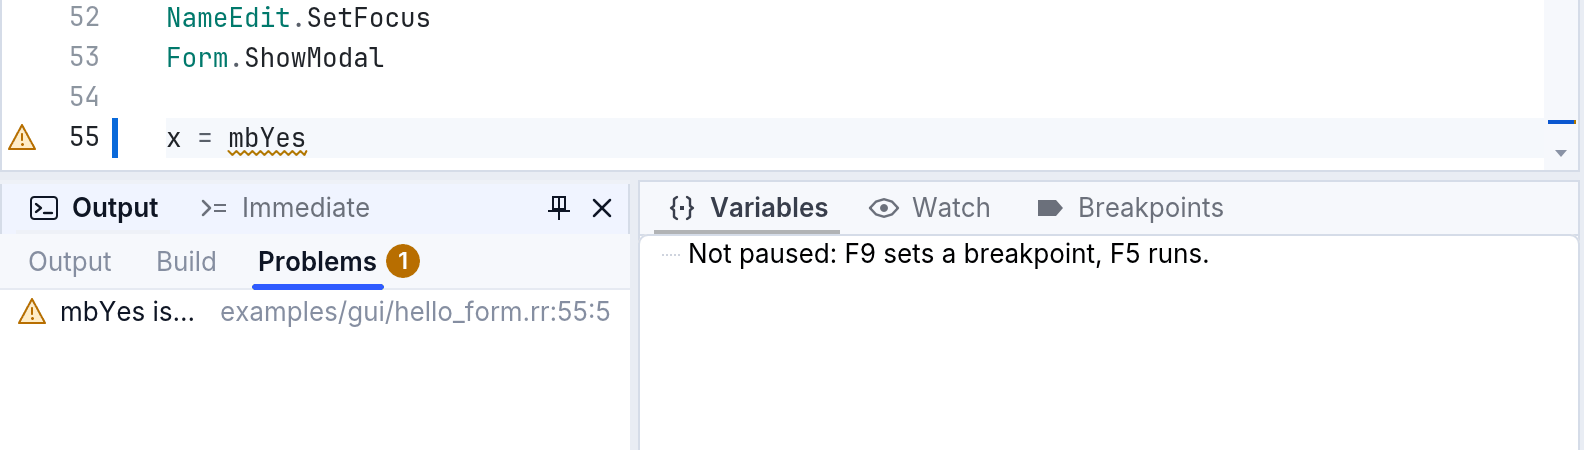
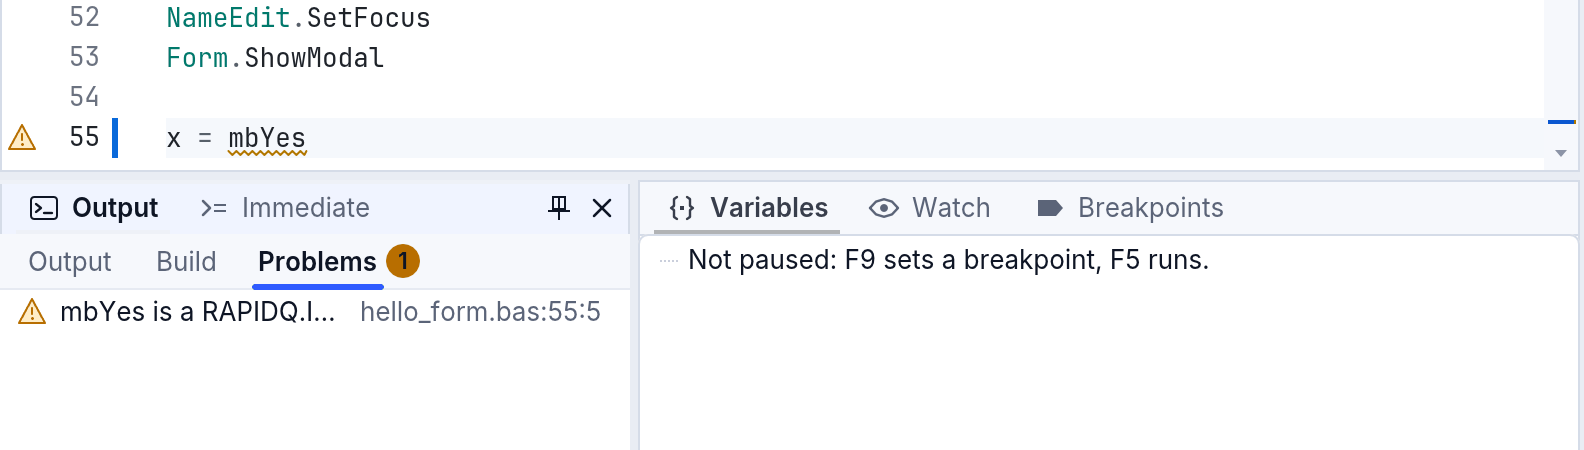
M0-CONST (2/2): the mark leaves no line behind; Studio flows, manual, changelog
- rapidr_ast::builtin_constants takes the preprocessor's mark out once it
  has read it (a directive's empty line entry after the file's last line
  was a place a breakpoint moved to: Studio flow debug-placed caught it),
  and puts QBColor's initialisation on the program's first line of code
  (as the include's are on its $INCLUDE line); a bcgen test guards both.
- Studio flows: the RAPIDQ.INC hint, quick fix and include-adding
  completion now on a RapidQ program (tests/fixtures/hello_form.bas, the
  example as a .bas); new editor-builtin-constants (mbYes, mtInformation,
  mbOK, clRed typed in a .rr: no problem) and editor-complete-builtin (no
  include added); inspector-kinds expects the constants' names in a .rr.
  Desktop and web.
- The examples suite compiles a web example under its file's name (a .rr
  is a RapidR program there too).
- Manual: Constants (language.md) for .rr and .bas; the code editor page
  with a new shot (completion-builtin) and the RAPIDQ.INC shots retaken on
  hello_form.bas (Studio started in the scene's folder: the file's name on
  screen, never the machine's path — tools/manual/shots.mjs `cwd`);
  designing forms, getting started, importing, debugging, the assistant.
- CHANGELOG (Changed), ROADMAP ticks (Constants, the modern way; the
  decision), master plan M0 row done.

diff --git a/crates/rapidr-ast/src/builtin_constants.rs b/crates/rapidr-ast/src/builtin_constants.rs
@@ -98,20 +98,60 @@ pub fn is_rapidr_program(program: &Program) -> bool {
 }
 
 /// The program with its built-in constants and `QBColor` (see the module);
-/// a RapidQ program as it is.
+/// a RapidQ program as it is. The mark itself is taken out: it is no code,
+/// and a line of its own (after the file's last) would be a place a
+/// breakpoint could move to.
 pub fn lower(program: &Program) -> Program {
     let Some(at) = mark(program) else { return program.clone() };
     let mut program = program.clone();
+    program.statements.retain(|s| !is_mark(s));
     let mut own = HashSet::new();
     own_names(&program.statements, &mut own, false);
     let mut qbcolor = false;
     rewrite_block(&mut program.statements, &own, &mut qbcolor);
     if qbcolor && !own.contains("qbcolor") {
-        let mut init = qbcolor_statements(at);
+        // (on the program's first line of code, as the include's are on
+        // its `$INCLUDE` line: never on a line after the file's last)
+        let first = program.statements.iter().filter_map(code_start).filter(|s| *s < at.start).min();
+        let mut init = qbcolor_statements(first.map_or(at, |s| TextSpan::new(s, s)));
         init.append(&mut program.statements);
         program.statements = init;
     }
     program
+}
+
+/// Where a statement of the main program's code starts: `None` for what
+/// runs no code there (directives, comments, routines, TYPEs, DECLAREs).
+fn code_start(s: &Statement) -> Option<usize> {
+    let span = match s {
+        Statement::Directive(_) | Statement::Comment(_) | Statement::Subroutine(_) | Statement::Function(_) | Statement::Type(_) | Statement::Declare(_) | Statement::RustBlock(_) => return None,
+        Statement::Assignment(a) => a.span,
+        Statement::Bind(b) => b.span,
+        Statement::Call(c) => c.span,
+        Statement::Close(c) => c.span,
+        Statement::Const(c) => c.span,
+        Statement::Create(c) => c.span,
+        Statement::Dim(d) => d.span,
+        Statement::DoLoop(d) => d.span,
+        Statement::Exit(e) => e.span,
+        Statement::For(f) => f.span,
+        Statement::If(i) => i.span,
+        Statement::Import(i) => i.span,
+        Statement::Input(i) => i.span,
+        Statement::Label(l) => l.span,
+        Statement::Goto(j) | Statement::Gosub(j) => j.span,
+        Statement::Line(l) => l.span,
+        Statement::Open(o) => o.span,
+        Statement::Print(p) => p.span,
+        Statement::PrintHash(p) => p.span,
+        Statement::Return(r) => r.span,
+        Statement::Seek(s) => s.span,
+        Statement::SelectCase(s) => s.span,
+        Statement::While(w) => w.span,
+        Statement::With(w) => w.span,
+        Statement::WriteHash(w) => w.span,
+    };
+    Some(span.start)
 }
 
 /// `DIM QBColor(0 TO 15) AS INTEGER` and its 16 values, as the include
@@ -393,12 +433,14 @@ mod tests {
         let rr = Program { span: TextSpan::default(), statements: vec![print(call), mark_stmt()] };
         let out = lower(&rr);
         assert!(matches!(&out.statements[0], Statement::Dim(d) if d.declarators[0].name == "QBColor" && d.type_name == "INTEGER"));
-        assert_eq!(out.statements.len(), 17 + 2);
-        // (the mark's place: no file has it)
-        assert!(matches!(&out.statements[1], Statement::Assignment(a) if a.span == TextSpan::new(90, 104)));
+        // (the 17 statements and the PRINT; the mark is gone: no code)
+        assert_eq!(out.statements.len(), 17 + 1);
+        assert!(!out.statements.iter().any(is_mark));
+        // (on the program's first line of code, never after its last)
+        assert!(matches!(&out.statements[1], Statement::Assignment(a) if a.span == TextSpan::new(0, 0)));
         // (not used: nothing added)
         let rr = Program { span: TextSpan::default(), statements: vec![print(id("clRed")), mark_stmt()] };
-        assert_eq!(lower(&rr).statements.len(), 2);
+        assert_eq!(lower(&rr).statements.len(), 1);
     }
 
     #[test]

diff --git a/interpreter/rapidr-bcgen/src/lib.rs b/interpreter/rapidr-bcgen/src/lib.rs
@@ -3158,6 +3158,18 @@ mod tests {
         assert_eq!(run(&format!("{}\nPRINT True\n", rapidr_preprocessor::rapidq_inc_text())).output, "1\n");
     }
 
+    /// The preprocessor's mark of a RapidR program (a line after the
+    /// file's last) and the QBColor array it gets are on no line after the
+    /// program's code: a breakpoint after the last line never moves there.
+    #[test]
+    fn built_in_constants_add_no_line_after_the_programs() {
+        let src = format!("' a comment\nPRINT QBColor(1)\nPRINT mbYes\n{}\n", rapidr_preprocessor::RAPIDR_PROGRAM);
+        let compiled = compile_program_with_source(&parse(&src), Some(&src)).expect("compiles");
+        let main = &compiled.module.functions[compiled.module.entry as usize];
+        let lines: Vec<u32> = main.line_info.iter().map(|(_, line)| *line).collect();
+        assert!(!lines.is_empty() && lines.iter().all(|l| (2..=3).contains(l)), "{lines:?}");
+    }
+
     #[test]
     fn print_string() {
         let h = run(r#"PRINT "hello""#);

diff --git a/ROADMAP.md b/ROADMAP.md
@@ -380,10 +380,10 @@ Planned 2026-10-03 with the user: RapidQ was made for 96-dpi screens; today's ar
 - [x] `Anchors` (Delphi's akLeft / akTop / akRight / akBottom) and `Constraints` (MinWidth …) on every component, in `rapidr_value::layout` (v2.107.0)
 - [ ] Flow and grid containers (Delphi's TFlowPanel / TGridPanel) for layouts that reflow on small screens — the base for mobile
 - [ ] Constants, the modern way (decided 2026-10-16 — Robert left it to the lead; after Preview 2):
-  - `.bas` programs keep RapidQ's rule: `$INCLUDE "RAPIDQ.INC"` turns its constants on. They stay built in, no RapidQ file is shipped, and nothing changes for old programs.
-  - `.rr` programs get every library constant built in, no include needed, as in VB and Delphi. Only the constants used are compiled, and a program's own name wins.
+  - [x] `.bas` programs keep RapidQ's rule: `$INCLUDE "RAPIDQ.INC"` turns its constants on. They stay built in, no RapidQ file is shipped, and nothing changes for old programs.
+  - [x] `.rr` programs get RAPIDQ.INC's constants and `QBColor` built in, no include needed, as in VB and Delphi. Only the constants used are compiled, and a program's own name wins (M0-CONST, rapidr_ast::builtin_constants; `True` stays -1). Left: the library includes' constants (`qmidi.inc`'s MD_PLAY …) still come with their include
   - Optional topic names such as `Color.Red` and `MsgBox.YesNo` for autocomplete; the old names keep working.
-  - The debugger never lists library constants as globals.
+  - [x] The debugger never lists library constants as globals (a `.rr` program's built-in ones are no variables; an include's stay grouped under it)
 - [ ] A stack container (RStackPanel: children one under the other or side by side, gap and padding) where a hidden child takes no space — forms that hide rows (Studio's Settings > AI hides Workspace ID / Address per provider) close up by themselves, no hand-placed `y = y + row` code; easy enough for a school kid, live in the designer, in the registry (Robert, 2026-10-16; after Preview 2)
 
 **One UI kernel (principle 7)**
@@ -449,7 +449,7 @@ The IDE plan ([docs/ide-plan.md](docs/ide-plan.md)) schedules the immediate wind
 - [x] Phase 1: RapidR's names (`RButton`) the default in the registry's exports, the manual, the language service (completion, hovers, "RapidQ name: QBUTTON"), the examples (but `examples/rapidq/`), the docs and the template; the compilers always accept both names; the importer and `upgrade-names` (crates/rapidr-import) with the corpus proof; `.rqw` / `.rqb` / `.rq` sources everywhere; a RapidQ-compatible project warns on RapidR's names of RapidQ's components
 - [x] Phase 2 (2026-10-08): RapidR Studio's toolbox (groups by purpose, no "RapidQ" / "RapidR" groups; RapidR's names; the card gives RapidQ's name), inspector header ("RButton (RapidQ name: QBUTTON)"), the designer's announcements, F1 Help and completion under RapidR's names; the designer and completion write new code in each file's style (`rapidr_lang::NameStyle`, never mixed); the templates (but "RapidQ program"), Add Form, Studio's own strings and `ide/` code under RapidR's names (proved: the same bytecode); File ▸ "Import RapidQ Project or File…" on desktop and web; `.rqw` / `.rqb` / `.rq` open, run and are read by the language service in Studio
 - [ ] Phase 2, the rest: "Upgrade this file to RapidR names" (Code menu, the palette, a code action: the diff, then one undoable edit)
-- [ ] Decide (Robert): built-in RAPIDQ.INC constants without the `$INCLUDE` line for RapidR's own files (today the line stays, as in RapidQ)
+- [x] Decide (Robert): built-in RAPIDQ.INC constants without the `$INCLUDE` line for RapidR's own files — decided 2026-10-16 (Constants, the modern way), done in M0-CONST: built into `.rr`, `.bas` as in RapidQ
 
 **I0 — Foundations** (L, 12–16 sessions)
 - [ ] The language registry (`rapidr-lang`): every component (Q and R names, which RapidQ has), property (type, default, editor, origin), method, event, builtin, statement and directive, with docs in our words; tests tie it to both runtimes both ways; generates the IDE's completion data, the VS Code data, the manual's reference sections and the AI prompt; `COMPONENT_TYPES` and the runtimes' name lists generated (Phase 0's "single language registry")

diff --git a/docs/manual/studio-editor.md b/docs/manual/studio-editor.md
@@ -70,12 +70,19 @@ constants:
 
 ### RAPIDQ.INC's constants
 
-Constants such as `mbYes`, `mtWarning`, `clRed` or `fmOpenRead` come from
-the include file RAPIDQ.INC. The list offers them even before your program
-includes it, and choosing one also adds the line `$INCLUDE "RAPIDQ.INC"`
-at the top of the file (after its first comments). Ctrl+Z takes both back.
+Constants such as `mbYes`, `mtWarning`, `clRed` or `fmOpenRead` are built
+into a RapidR program (`.rr`): the list offers them as they are, and you
+need no include line
+([Constants](language.md#constants-clred-mbyes-vk_escape)).
 
-![Typing mby lists mbYes, MB_YESNO and other RAPIDQ.INC constants; the description says that choosing one adds $INCLUDE "RAPIDQ.INC" at the top of the file](images/studio-editor/completion-include.png)
+![Typing mby in hello_form.rr lists mbYes, MB_YESNO and other constants, each a built-in constant with its number](images/studio-editor/completion-builtin.png)
+
+In a RapidQ program (`.bas`) they come from the include file RAPIDQ.INC, as
+in RapidQ. The list offers them even before your program includes it, and
+choosing one also adds the line `$INCLUDE "RAPIDQ.INC"` at the top of the
+file (after its first comments). Ctrl+Z takes both back.
+
+![Typing mby in hello_form.bas lists mbYes, MB_YESNO and other RAPIDQ.INC constants; the description says that choosing one adds $INCLUDE "RAPIDQ.INC" at the top of the file](images/studio-editor/completion-include.png)
 
 ## Parameter info
 
@@ -136,10 +143,11 @@ you build.
 
 ### The RAPIDQ.INC warning
 
-RapidR, to run old programs the same way, reads a name it
-doesn't know as a new variable that is 0. So if a program uses `mbYes`
-without including RAPIDQ.INC, `mbYes` is 0, and a question like this one
-shows only an OK button:
+In a RapidQ program (`.bas`), RapidR, to run old programs the same way,
+reads a name it doesn't know as a new variable that is 0. So if such a
+program uses `mbYes` without including RAPIDQ.INC, `mbYes` is 0, and a
+question like this one shows only an OK button (a `.rr` program has the
+constants built in: no warning there):
 
 ```basic
 IF MessageDlg("Save changes?", mtWarning, mbYes OR mbNo, 0) = mrYes THEN

diff --git a/docs/manual/language.md b/docs/manual/language.md
@@ -74,22 +74,39 @@ DEFINT k(1 TO 3) = {7, 8, 9}  ' DEFINT, DEFSTR, DEFLNG, DEFDBL, …
 Constants are names for fixed numbers, such as colours, message box buttons and
 key codes. The full list is in [the constants reference](reference/constants.md).
 
-**Today:** the classic constants come with one line at the top of
-the program:
+**In a RapidR program (`.rr`)** they are built in. Just use them, no
+include line:
+
+```basic
+Form.Color = clRed
+IF MESSAGEDLG("Save?", mtConfirmation, mbYes OR mbNo, 0) = mrYes THEN SaveIt
+PRINT QBColor(12)          ' QBasic's 16 colours, QBColor(0) … QBColor(15)
+```
+
+A name of your own wins: `DIM mbYes AS INTEGER = 5`, `CONST clRed = &HFF`,
+a variable you store into or a SUB's parameter is yours where you declare
+it, and the built-in constant is still there everywhere else. Only the
+constants your program uses are compiled, and the debugger doesn't list them
+as variables. `True` stays -1, as a comparison gives it (a check box's
+`Checked` is 1: test `IF CheckBox1.Checked THEN`, not `= True`).
+
+**In a RapidQ program (`.bas`)** nothing changes: the constants come with
+one line at the top, as in RapidQ:
 
 ```basic
 $INCLUDE "RAPIDQ.INC"
-
-Form.Color = clRed
-IF MESSAGEDLG("Save?", mtConfirmation, mbYes OR mbNo, 0) = mrYes THEN SaveIt
 ```
 
-RapidR has these constants built in, so the line needs no file: RapidR ships
-no copy of that include file. Without the line, `clRed` is an undeclared name
-and reads as 0. Old programs behave the same.
+RapidR has that include built in, so the line needs no file: RapidR ships no
+copy of it. Without the line, `clRed` is an undeclared name and reads as 0,
+as in RapidQ, and the code editor warns you
+([the RAPIDQ.INC warning](studio-editor.md#the-rapidqinc-warning)). Old
+programs behave the same. The line in a `.rr` program is harmless: the
+constants are then the include's.
 
 RapidR's own constants, such as `akLeft` … `akBottom` for anchors, need no
-include. A variable or `CONST` of your own with the same name always wins.
+include in any program. A variable or `CONST` of your own with the same name
+always wins.
 
 Your own constants:
 

diff --git a/CHANGELOG.md b/CHANGELOG.md
@@ -21,6 +21,25 @@ project uses [Semantic Versioning](https://semver.org/). Planned work lives in
   examples/translations/languages.rr, and a manual page,
   [Your program in every language](docs/manual/translations.md).
 
+### Changed
+- **RapidQ's standard constants are built into RapidR programs** (master
+  plan M0, lane M0-CONST): a `.rr` program uses `mbYes`, `clRed`,
+  `crHandPoint`, `alClient`, `VK_ESCAPE` … and the `QBColor` array (an
+  assignable INTEGER array, 0 TO 15) with no `$INCLUDE "RAPIDQ.INC"`, the
+  same numbers the include gives. A name the program declares or stores
+  into itself wins where it does (`DIM mbYes AS INTEGER = 5` prints 5, a
+  SUB's parameter or local is the SUB's); only the constants used are
+  compiled and the debugger lists none of them; `True` stays -1. Resolved
+  once in the front end both backends share (interpreter, native builds and
+  the web alike); the line in a `.rr` stays harmless. RapidQ programs
+  (`.bas`, `.rqw` …) are unchanged: the constants come with the include,
+  without it the names are RapidQ's undeclared 0s and Studio's warning and
+  quick fix stay. In a `.rr` program Studio's completion offers them as
+  built-in constants (no include added), hover says so, the designer writes
+  their names, and RAI's instructions and recipes no longer include
+  RAPIDQ.INC. Conformance cases rr_builtin_constants, rr_shadow_constant and
+  bas_implicit_constant; the manual's [Constants](docs/manual/language.md#constants-clred-mbyes-vk_escape).
+
 ## [2.120.0] — 2026-10-19 (Preview 3: RAI)
 
 ### Added

diff --git a/docs/manual/designing-forms.md b/docs/manual/designing-forms.md
@@ -241,10 +241,11 @@ needs:
 | font | Font ▸ Name `Arial`, Size `12`, Bold ☑, Color `clBlue` | `Font.Name = "Arial"`, `Font.Size = 12`, `Font.Bold = 1`, `Font.Color = …` |
 | number | Width `120` | `Width = 120` |
 
-The classic named constants — `clYellow`, `taCenter`, `alClient` … — come
-from `RAPIDQ.INC`. In a program that doesn't `$INCLUDE "RAPIDQ.INC"` (or
-define them), a name would read as nothing when it runs, so the designer
-writes the number instead.
+The classic named constants — `clYellow`, `taCenter`, `alClient` … — are
+built into a RapidR program (`.rr`), so the designer writes their names. A
+RapidQ program (`.bas`) gets them from `RAPIDQ.INC`: in one that doesn't
+`$INCLUDE "RAPIDQ.INC"` (or define them), a name would read as nothing when
+it runs, so the designer writes the number instead.
 
 The **Events** page lists the component's events (the form's when nothing
 is selected: OnShow, OnClose, OnResize, OnPaint, OnKeyDown …).

diff --git a/docs/manual/getting-started.md b/docs/manual/getting-started.md
@@ -300,9 +300,10 @@ The rule is simply Q → R (`QBUTTON` is `RButton`); a few differ: `QGAUGE` is
 `RProgressBar`, `QOUTLINE` is `RTreeView`, `COMPORT` is `RComPort`. The full
 list: [reference/components.md](reference/components.md). To turn such a
 program into one with RapidR's names, see
-[Importing older programs](importing-rapidq.md). A program that uses the classic constants (`clRed`,
-`MB_OK` …) keeps the line `$INCLUDE "RAPIDQ.INC"`: RapidR supplies them
-through that line without needing the file.
+[Importing older programs](importing-rapidq.md). A RapidQ program (`.bas`) that uses the classic
+constants (`clRed`, `MB_OK` …) keeps the line `$INCLUDE "RAPIDQ.INC"`:
+RapidR supplies them through that line without needing the file. A RapidR
+program (`.rr`) has them built in, with no line.
 
 ## Building
 

diff --git a/docs/manual/ai-assistant.md b/docs/manual/ai-assistant.md
@@ -215,7 +215,8 @@ Each time the assistant checks its code, Studio adds **friendly hints**
 under the compiler's messages: the exact fix for habits from other languages
 (`!=` is `<>` in BASIC; there is no `BOOLEAN`, use `INTEGER`; one `AS` per
 name; no `[ ]` lists), a name that is never given a value (with the closest
-one the program has), a classic constant used without `$INCLUDE "RAPIDQ.INC"`,
+one the program has), a classic constant used without `$INCLUDE "RAPIDQ.INC"`
+in a `.bas` program (a `.rr` program has them built in),
 a window that is never shown (`Form.ShowModal` missing), and a handler that
 does nothing yet or only says what "a real implementation would" do. Once
 it compiles, Studio also looks at the window as you would: a control cut off

diff --git a/docs/master-plan.md b/docs/master-plan.md
@@ -59,7 +59,7 @@ Each milestone ends with a **Preview release** and a WOW post: a video or GIF, i
 Plans: preview2-fix-queue (memory), ROADMAP.
 | Item | Model, size |
 |---|---|
-| Constants built into `.rr` programs (no `$INCLUDE "RAPIDQ.INC"`); recipes, hints and instructions updated | Opus M |
+| Constants built into `.rr` programs (no `$INCLUDE "RAPIDQ.INC"`); recipes, hints and instructions updated — done (M0-CONST) | Opus M |
 | `OnMessage` accepted on RForm (same as WndProc) | Sonnet S |
 | Playing sound must never ask for the microphone (macOS) | Opus S |
 | RapidR-first leftovers: generated reference headers, Studio hint strings, internal docs, two install screenshots | Sonnet S |

diff --git a/docs/manual/debugging.md b/docs/manual/debugging.md
@@ -365,7 +365,8 @@ stays open from one stop to the next, and changed values are in blue.
 **Globals** lists your program's own variables first. The constants an
 `$INCLUDE` brings — `RAPIDQ.INC` has nearly five hundred: colours,
 keys, message box buttons — come after them, each file's under one item
-that stays closed until you open it:
+that stays closed until you open it (the constants built into a `.rr`
+program aren't variables: they aren't listed):
 
 ![Variables > Globals: picked = 255 and warning = "Low on paper", then the closed item $INCLUDE RAPIDQ.INC (484 names)](images/debugging/variables-include.png)
 

diff --git a/docs/manual/importing-rapidq.md b/docs/manual/importing-rapidq.md
@@ -24,7 +24,9 @@ never changed.
   name it changed (file, line, column), every include file and where it
   was found, and anything it left alone, and why.
 - `$INCLUDE "RAPIDQ.INC"` stays: RapidR supplies RapidQ's constants (`clRed`,
-  `MB_OK` …) through that line, without the file.
+  `MB_OK` …) through that line, without the file. (The copy keeps its
+  `.bas` name: a RapidQ program, whose constants come with the line; a
+  `.rr` program has them built in.)
 
 Before and after, for a small program:
 
